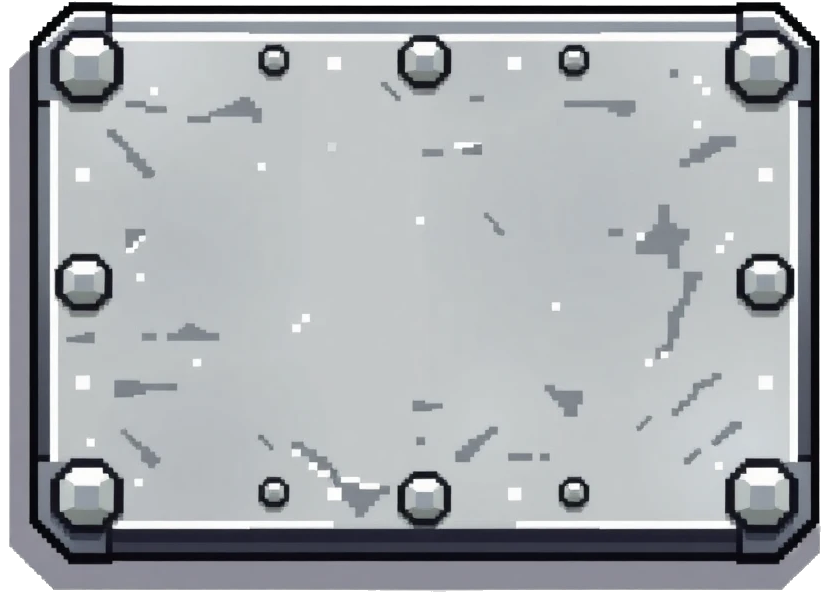
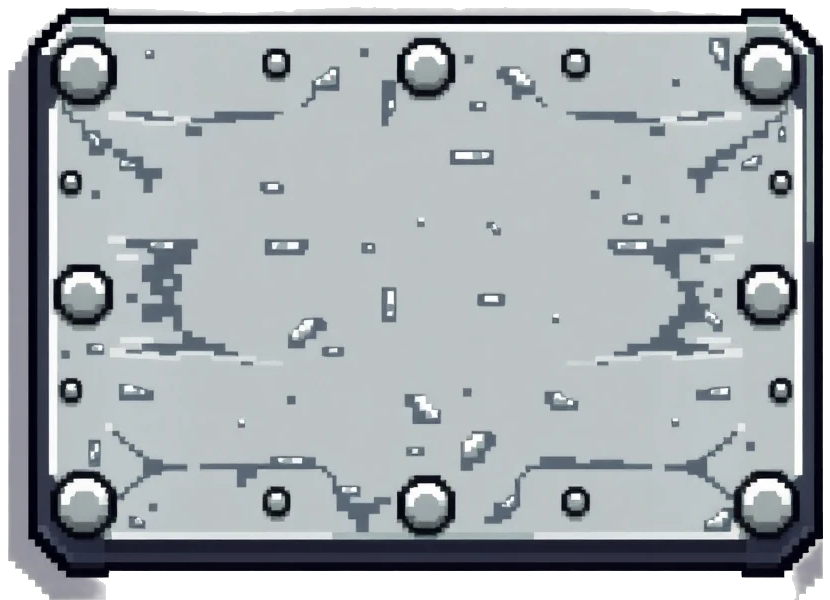
v12: Generate the missing asset images for tier 4 mining

diff --git a/src/item-data-mining.js b/src/item-data-mining.js
@@ -125,45 +125,45 @@ export const ITEM_ICONS_MINING = {
     stabilized_powder: 'item_mining_stabilized_powder.png',
 
     // TIER 3
-    silver_ore: 'item_ore_iron.png',
-    native_silver: 'item_ore_iron.png',
-    polished_silver_chip: 'item_small_gem_chip.png',
-    silver_spirit_token: 'item_ancient_coin.png',
+    silver_ore: 'item_mining_silver_ore.png',
+    native_silver: 'item_mining_native_silver.png',
+    polished_silver_chip: 'item_mining_polished_silver_chip.png',
+    silver_spirit_token: 'item_mining_silver_spirit_token.png',
     gold_ore: 'item_ore_gold.png',
-    gold_flake: 'item_small_gem_chip.png',
-    gold_nugget: 'item_ore_gold.png',
-    pure_gold_ingot: 'item_ore_gold.png',
-    ancient_gold_sigil: 'item_ancient_coin.png',
-    quartz_crystal: 'item_small_gem_chip.png',
-    shimmer_dust: 'item_cosmic_dust.png',
-    prism_shard: 'item_glass_shards.png',
-    radiant_crystal: 'item_small_gem_chip.png',
-    obsidian_chunk: 'item_coal.png',
-    shattered_blade_glass: 'item_glass_shards.png',
-    black_shard: 'item_glass_shards.png',
-    volcanic_heart: 'item_gem_ruby.png',
+    gold_flake: 'item_mining_gold_flake.png',
+    gold_nugget: 'item_mining_gold_nugget.png',
+    pure_gold_ingot: 'item_mining_pure_gold_ingot.png',
+    ancient_gold_sigil: 'item_mining_ancient_gold_sigil.png',
+    quartz_crystal: 'item_mining_quartz_crystal.png',
+    shimmer_dust: 'item_mining_shimmer_dust.png',
+    prism_shard: 'item_mining_prism_shard.png',
+    radiant_crystal: 'item_mining_radiant_crystal.png',
+    obsidian_chunk: 'item_mining_obsidian_chunk.png',
+    shattered_blade_glass: 'item_mining_shattered_blade_glass.png',
+    black_shard: 'item_mining_black_shard.png',
+    volcanic_heart: 'item_mining_volcanic_heart.png',
 
     // TIER 4
     mithril_ore: 'item_ore_mithril.png',
-    refined_mithril_chip: 'item_ore_mithril.png',
-    mithril_nugget: 'item_ore_mithril.png',
-    living_mithril_core: 'item_power_core.png',
+    refined_mithril_chip: 'item_mining_refined_mithril_chip.png',
+    mithril_nugget: 'item_mining_mithril_nugget.png',
+    living_mithril_core: 'item_mining_living_mithril_core.png',
     rough_sapphire: 'item_gem_sapphire.png',
     sapphire_shard: 'item_gem_sapphire.png',
     polished_sapphire: 'item_gem_sapphire.png',
-    heart_of_the_tides: 'item_mysterious_orb.png',
+    heart_of_the_tides: 'item_mining_heart_of_the_tides.png',
     rough_ruby: 'item_gem_ruby.png',
     ruby_fragment: 'item_gem_ruby.png',
     polished_ruby: 'item_gem_ruby.png',
     ember_core_ruby: 'item_gem_ruby.png',
-    titanium_ore: 'item_ore_mithril.png',
-    titanium_shard: 'item_ore_mithril.png',
-    reinforced_titan_plate: 'item_mech_plating.png',
-    titanheart_alloy: 'item_unknown_alloy.png',
-    rough_emerald: 'item_gem_sapphire.png',
-    emerald_flake: 'item_gem_sapphire.png',
-    polished_emerald: 'item_gem_sapphire.png',
-    verdant_core: 'item_mysterious_orb.png',
+    titanium_ore: 'item_mining_titanium_ore.png',
+    titanium_shard: 'item_mining_titanium_shard.png',
+    reinforced_titan_plate: 'item_mining_reinforced_titan_plate.png',
+    titanheart_alloy: 'item_mining_titanheart_alloy.png',
+    rough_emerald: 'item_mining_rough_emerald.png',
+    emerald_flake: 'item_mining_emerald_flake.png',
+    polished_emerald: 'item_mining_polished_emerald.png',
+    verdant_core: 'item_mining_verdant_core.png',
 
     // TIER 5
     starsteel_ore: 'item_ore_mithril.png',
